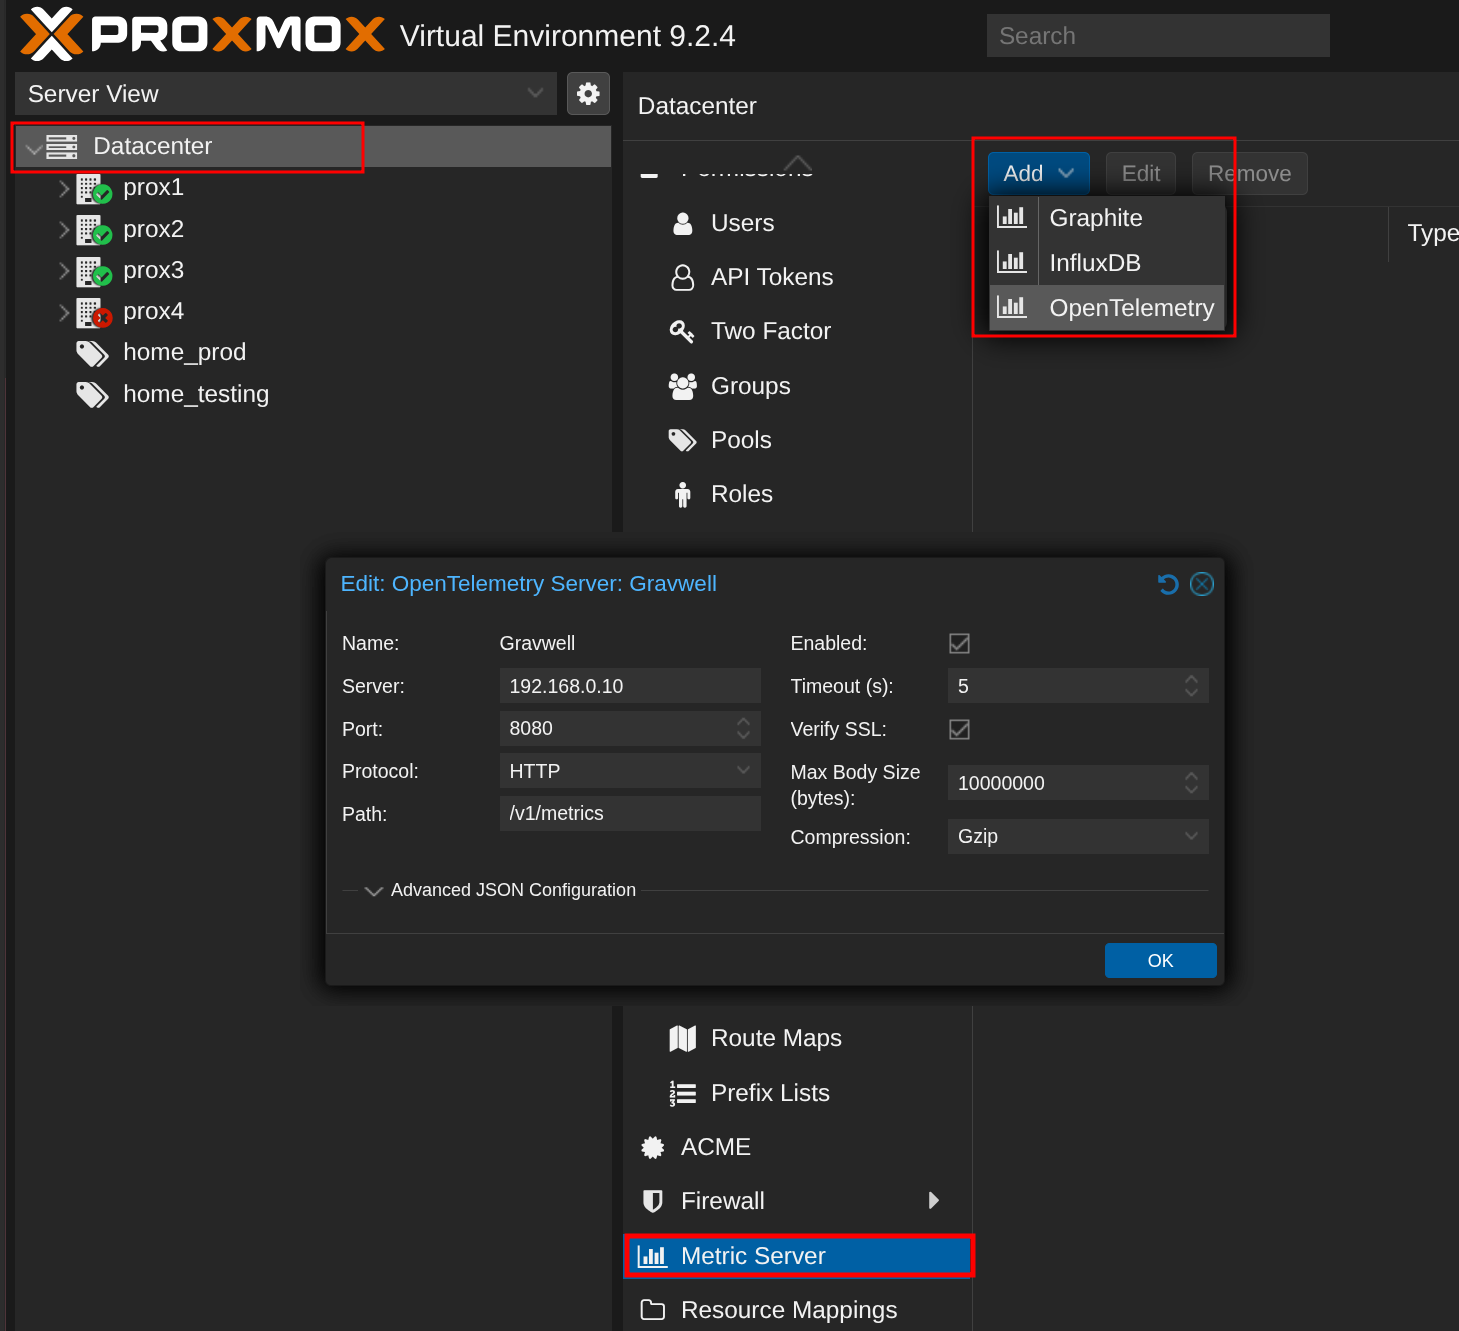
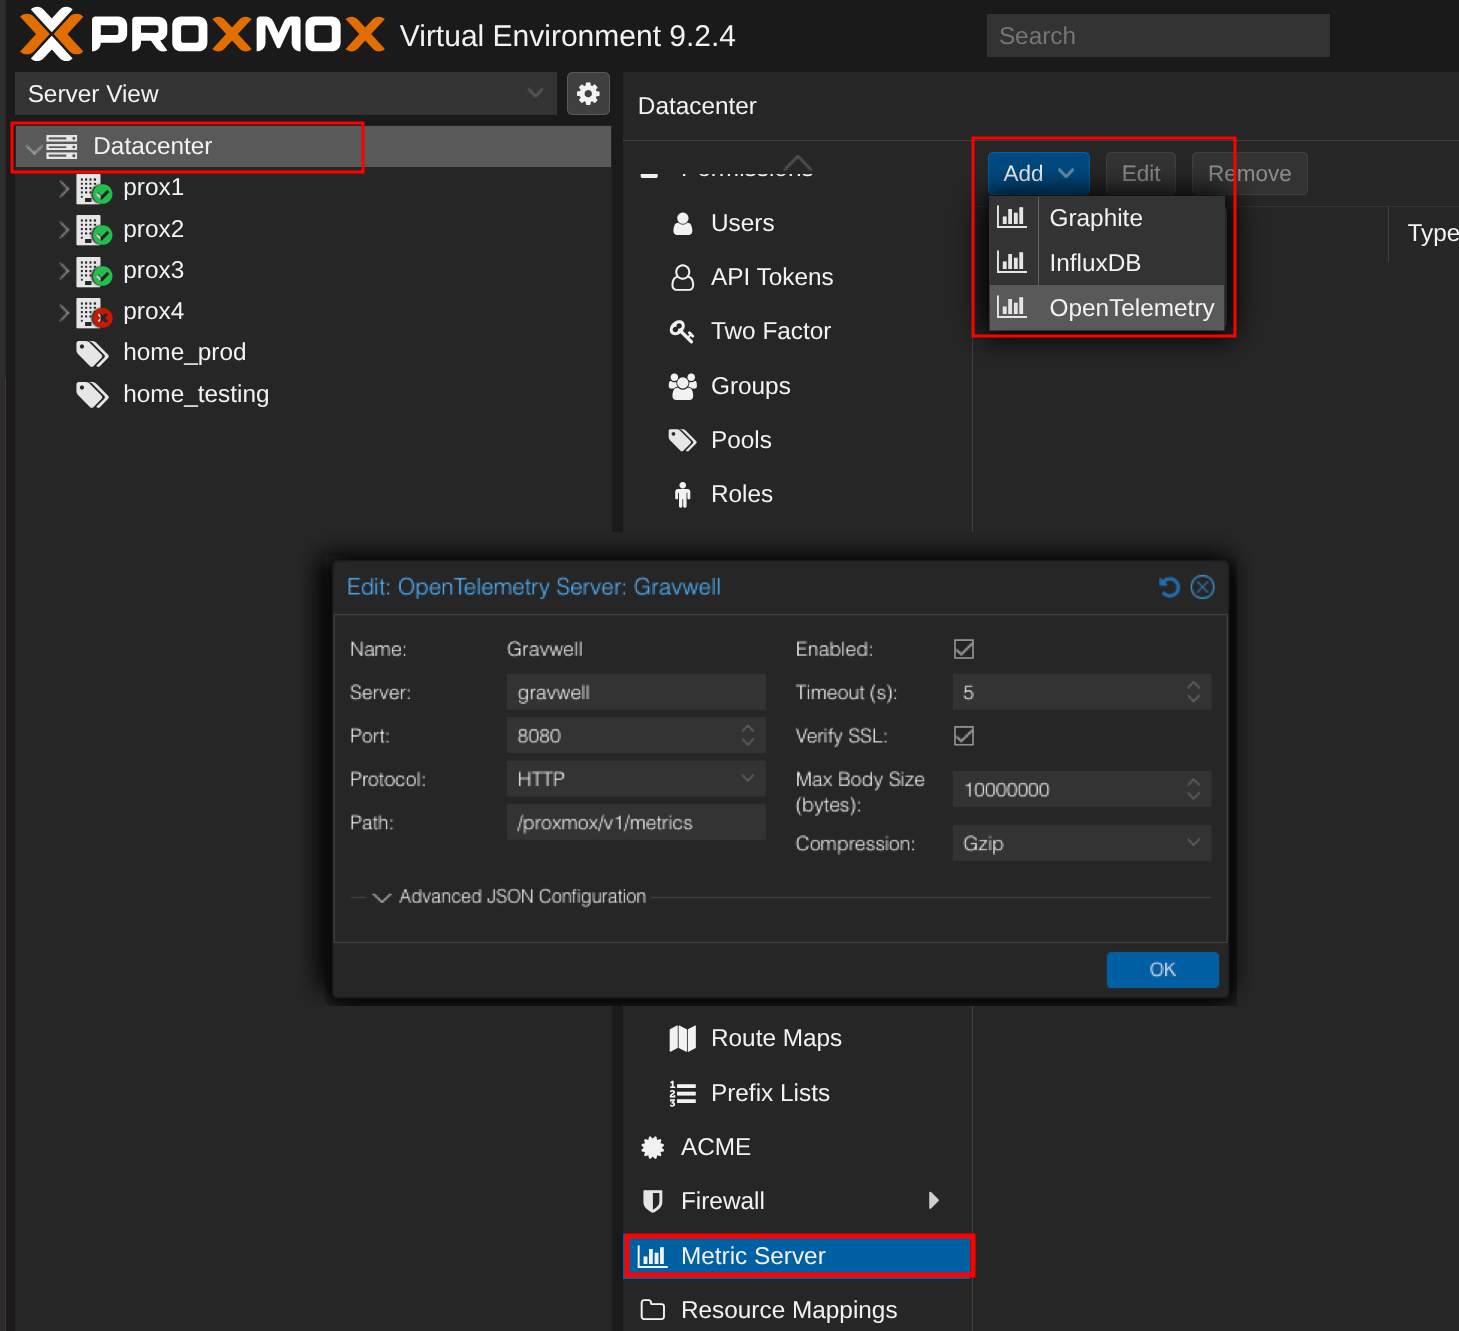
Proxmox VE: rsyslog to Simple Relay for system logs; OpenTelemetry for PVE 9
Option 2 (system logs) is redesigned. The previous systemd-journal-upload method
did not work as documented: journal-upload appends /upload to its URL, so the
listener never matched, and the HTTP listener stored each upload batch as one
entry.

- Title "Proxmox VE" (index toctree line and card too). Intro lists both options
  with their tags and the tested version (Proxmox VE 9.2.24; Option 2 also 8.4).
- Option 1: add the HTTP Ingester listener before the Proxmox metric server
  (Proxmox tests the connection on save). Listener section "proxmox", URL
  /proxmox/v1/metrics, tag proxmox-metrics. Volume example for sizing. New
  screenshot with the guide's Path.
- Option 2: rsyslog forwards RFC 5424 over TCP to Simple Relay tcp/15160, tag
  proxmox-syslog, with a disk queue. Steps: install, check for existing
  forwards (with a backup before editing), create 40-gravwell.conf, validate,
  restart, test message with a timestamp check. The 40- prefix is read before
  the frr package's 45-frr.conf, which otherwise stops FRR (SDN) messages
  before they are forwarded. One-sentence TLS pointer to the Simple Relay page.
  Cleanup for the old journal-upload method and undo steps.
- Well sample lists the two exact tags, with a check for existing data.
- Additional Resources section.

Tested end to end on Proxmox VE 9.2.24 (and Option 2 on 8.4.21) against
Gravwell 5.10.0, node in America/Denver, Gravwell host in UTC.

diff --git a/integrations/network/proxmox.md b/integrations/network/proxmox.md
@@ -1,99 +1,189 @@
-# Proxmox
+# Proxmox VE
 
 :::{csv-table}
 :align: left
 :width: 45%
 :widths: 15, 25
 **Integration Details**
-    Ingester, [HTTP Ingester](/ingesters/http)
+    Ingester, [HTTP Ingester](/ingesters/http) <br /> [Simple Relay](/ingesters/simple_relay)
 :::
+
+This guide sends metrics and system logs from Proxmox Virtual Environment (Proxmox VE) nodes to Gravwell. The two options collect different data, so you can use either one or both:
+
+* **[Option 1] OpenTelemetry metrics (Proxmox VE 9.0 and later):** Proxmox VE sends metrics about each node, virtual machine, container and storage to the HTTP Ingester. This method requires no additional installation and is useful for monitoring system, storage and network usage. Gravwell stores them under the `proxmox-metrics` tag.
+* **[Option 2] System logs:** each node's system log, which includes Proxmox VE actions such as VM power-on and restart, forwarded to Simple Relay. This method requires installing `rsyslog` on each node. Gravwell stores them under the `proxmox-syslog` tag.
+
+The steps in this guide were tested on Proxmox VE 9.2.24. Option 2 was also tested on Proxmox VE 8.4.
 
 ## Proxmox Configuration
 
-There are two primary methods to monitor Proxmox environments.
-* **OpenTelemetry (Simplest, metrics only):** Proxmox provides metrics about the environment and individual virtual machines through OpenTelemetry. This method requires no additional installation and is useful for monitoring things like system, storage, and network usage. 
-* **systemd logs (Proxmox logs):** systemd logs include Proxmox commands, such as VM power-on and restart. This method requires installing a package on Proxmox from the command line.
-
-If you use both methods, send them to different URLs and tags.
-
 ### [Option 1] Exporting Proxmox Metrics via OpenTelemetry
 
-OpenTelemetry collects metrics about each of the nodes and individual VMs. In the Proxmox web interface, go to **Datacenter** > **Metric Server** > **Add** > **OpenTelemetry** to send them to the HTTP Ingester, and set:
+The OpenTelemetry metric server is available in Proxmox VE 9.0 and later. Add the HTTP Ingester listener first (see "Gravwell Ingester Configuration: HTTP Ingester" below): Proxmox VE tests the connection when you save the metric server, and the save fails until the listener exists.
+
+In the Proxmox web interface, go to **Datacenter** > **Metric Server** > **Add** > **OpenTelemetry** to send metrics to the HTTP Ingester, and set:
 
 * **Name**: Use an identifiable name.
 * **Server**: Set to the address of your HTTP Ingester.
 * **Port**: Set to the port your HTTP Ingester listens on (its `Bind` setting, see [HTTP Ingester Setup](/integrations/generic/http_ingester)).
-* **Protocol**: Set to the protocol used by your HTTP Ingester.
+* **Protocol**: Set to the protocol used by your HTTP Ingester. Proxmox VE defaults to `https`; choose `http` if your HTTP Ingester does not use TLS.
 * **Path**: Set to the `URL` value in your HTTP Ingester listener (`/proxmox/v1/metrics` in the sample below).
 
 ![image](images/proxmox_opentelemetry.png)
 
-### [Option 2] Exporting Proxmox Systemd Logs
+Proxmox VE sends every metric every 10 seconds, and Gravwell stores each data point as one entry, so the volume grows with the number of virtual machines, containers and storages. For example, a node with 45 VMs, 22 containers and 4 storages sends about 3,300 data points every 10 seconds. That is about 29 million entries and about 1.3 GB on disk per day. Set the well's retention with this in mind.
 
-Install `systemd-journal-remote` to export logs to Gravwell:
-```
-apt update && apt install systemd-journal-remote
+### [Option 2] Forwarding Proxmox System Logs to Simple Relay
+
+Proxmox VE writes its logs to the systemd journal. `rsyslog` forwards them to Gravwell Simple Relay, one entry per log message. Fresh installs of Proxmox VE 8.0 and later do not include `rsyslog`; nodes upgraded from earlier releases usually still have it. Run the following as `root` on each Proxmox VE node; every node sends its own logs.
+
+1. Install `rsyslog`. If it is already installed, this changes nothing:
+
+    ```bash
+    apt update && apt install rsyslog
+    ```
+
+2. Check for existing forwarding rules. Run this before creating the file in the next step:
+
+    ```bash
+    grep -snE '^[^#]*(@@?[^ ]|omfwd)' /etc/rsyslog.conf /etc/rsyslog.d/*.conf
+    ```
+
+    No output means nothing is forwarded today. A line that sends to your Gravwell host (for example `*.* @gravwell.example.com:514`) would make the node send every message twice; remove or comment it out. Leave forwards to other destinations alone. For a multi-line `action(...)` block, the matching line is `type="omfwd"`; its `target` is in the same block.
+
+    Before you edit a file, back it up. Use a new backup name each time:
+
+    ```bash
+    cp /etc/rsyslog.conf /etc/rsyslog.conf.bak-$(date +%Y%m%d-%H%M%S)
+    ```
+
+    Replace `/etc/rsyslog.conf` with the file the check printed.
+
+3. Create `/etc/rsyslog.d/40-gravwell.conf` with the following, replacing `SIMPLE-RELAY-HOST` with the address of your Simple Relay:
+
+    ```text
+    # Forward all syslog messages to Gravwell Simple Relay over TCP, RFC 5424 format.
+    # Messages queue on disk (up to 1 GB) while Simple Relay is unreachable.
+    *.* action(
+        type="omfwd"
+        target="SIMPLE-RELAY-HOST"
+        port="15160"
+        protocol="tcp"
+        template="RSYSLOG_SyslogProtocol23Format"
+        action.resumeRetryCount="-1"
+        queue.type="LinkedList"
+        queue.filename="gravwell_fwd"
+        queue.maxDiskSpace="1g"
+        queue.saveOnShutdown="on"
+    )
+    ```
+
+    `RSYSLOG_SyslogProtocol23Format` sends an RFC 5424 timestamp that includes the node's UTC offset, so the listener needs no timezone setting, whatever timezone the node or Simple Relay host uses. Keep this template: rsyslog's default forwarding format has no offset, and Simple Relay would read it in its own host's timezone.
+
+    Keep the `40-` prefix. `rsyslog` reads the files in `/etc/rsyslog.d` in name order, and some packages add files that stop their messages after writing them locally. For example, the `frr` package (the routing suite used by Proxmox VE SDN) adds `45-frr.conf`. A file read after it would not forward FRR messages.
+
+4. Check the configuration. The output ends with `End of config validation run. Bye.` and shows no error lines:
+
+    ```bash
+    rsyslogd -N1
+    ```
+
+5. Restart `rsyslog` to apply the configuration:
+
+    ```bash
+    systemctl restart rsyslog
+    ```
+
+6. Send a test message:
+
+    ```bash
+    logger -t gravwell-test "Gravwell forwarding test"
+    ```
+
+    Search for it in Gravwell with `tag=proxmox-syslog grep gravwell-test | table TIMESTAMP DATA`. TIMESTAMP is shown in UTC (or your Gravwell display timezone) and must match the time in the message header, which carries the node's offset.
+
+`rsyslog` forwards new messages only; it does not send the journal history from before it started. While Simple Relay is unreachable, messages queue on disk under `/var/spool/rsyslog` and are sent when it is back, including across an `rsyslog` restart. `rsyslog` also writes the usual local log files, such as `/var/log/syslog`, on the node.
+
+```{note}
+A message being sent at the moment Simple Relay stops can be lost. This is a limit of syslog over TCP.
 ```
 
-Create or edit `/etc/systemd/journal-upload.conf` with the following:
-```
-[Upload]
-# Set to the address and port of your HTTP Ingester, plus the listener path (/upload in the sample below)
-URL=http://ingesterIP:port/upload
-# ServerKeyFile=/etc/ssl/private/journal-upload.pem
-# ServerCertificateFile=/etc/ssl/certs/journal-upload.pem
-# TrustedCertificateFile=/etc/ssl/ca/trusted.pem
+If you previously followed an earlier version of this guide that used `systemd-journal-upload`, stop it so the node does not send its logs twice:
+
+```bash
+systemctl disable --now systemd-journal-upload.service
 ```
 
-Enable and restart the service:
-```
-sudo systemctl enable systemd-journal-upload.service
-sudo systemctl restart systemd-journal-upload.service
-sudo systemctl status systemd-journal-upload.service
+To stop forwarding, remove the file and restart `rsyslog`:
+
+```bash
+rm /etc/rsyslog.d/40-gravwell.conf
+systemctl restart rsyslog
 ```
 
-The first run uploads the entire journal, which may exceed the `Max-Body` limit of the Gravwell HTTP Ingester. You may need to increase `Max-Body` in the HTTP Ingester configuration:
-* Find the current file size with `journalctl --disk-usage`
-* Increase `Max-Body` in the `[Global]` block of the HTTP Ingester's base configuration file to at least that size, then restart the ingester. See [HTTP Ingester Setup](/integrations/generic/http_ingester).
+If you removed a forward in step 2, restore it from your backup before the restart.
 
 ## Gravwell Configuration
 
 ### Gravwell Storage Well Configuration
 
-Setup the well configuration in your Gravwell indexers.
+Set up the well configuration in your Gravwell indexers.
 
 **Sample well config:**  
 Create or edit: `/opt/gravwell/etc/gravwell.conf.d/proxmox-well.conf`
 ```ini
 [Storage-Well "proxmox"]
     Location=/opt/gravwell/storage/proxmox
-    Tags=prox-*
-    Tags=otel-prox-*
+    Tags=proxmox-syslog
+    Tags=proxmox-metrics
 ```
+
+If either tag already has data in another well, leave that tag in its current well and remove its line from this sample. Gravwell does not move stored entries when a tag is assigned to a different well, and entries already stored under the tag stop being searchable. See "Tag Restrictions and Gotchas" in [Advanced Gravwell Configuration](/configuration/configuration). To check before adding the sample, run `tag=proxmox-syslog count` and `tag=proxmox-metrics count` over a timeframe that covers all your stored data (for example a custom duration of several years). A non-zero count means the tag already has data; an error that the tag does not match any known tags means it has none.
 
 ### Gravwell Ingester Configuration: HTTP Ingester
 
-This guide assumes the HTTP Ingester is already installed and configured as described in [HTTP Ingester Setup](/integrations/generic/http_ingester). Add the following to a new overlay file; you do not need a separate HTTP Ingester for this integration.
+Used by Option 1. This guide assumes the HTTP Ingester is already installed and configured as described in [HTTP Ingester Setup](/integrations/generic/http_ingester). Add the following to a new overlay file; you do not need a separate HTTP Ingester for this integration.
 
 **Sample Proxmox HTTP config:**  
 Create or edit: `/opt/gravwell/etc/gravwell_http_ingester.conf.d/proxmox.conf`
 ```ini
-# [Option 1] Open Telemetry Metrics Listener
-[OpenTelemetry-Metrics-Listener "otel-metrics"]
+[OpenTelemetry-Metrics-Listener "proxmox"]
     URL="/proxmox/v1/metrics"        # OTLP metrics endpoint with a Proxmox-specific prefix
-    Tag-Name="otel-prox-metrics"     # Tag for ingested metrics
+    Tag-Name="proxmox-metrics"       # Tag for ingested metrics
     Ignore-Timestamps=false          # Use timestamps from OTLP data
-    Debug-Posts=true                 # Log debug info about requests
     Encode-As-JSON=true              # Encode metrics as JSON and include in the entry DATA, (doubles storage requirements)
 #    Preprocessor="otel-processor"   # Optional preprocessor
-
-# [Option 2] Exporting Proxmox Systemd logs
-[Listener "systemd"]
-    URL="/upload"
-    Tag-Name=prox-systemd
 ```
 
 ```{note}
 Remember to restart the service to apply the new config:
 `sudo systemctl restart gravwell_http_ingester.service`
 ```
+
+### Gravwell Ingester Configuration: Simple Relay
+
+Used by Option 2. This guide assumes Simple Relay is already installed and configured as described in [Simple Relay](/ingesters/simple_relay). Add the following to a new overlay file.
+
+**Sample Proxmox Simple Relay config:**  
+Create or edit: `/opt/gravwell/etc/simple_relay.conf.d/proxmox.conf`
+```ini
+[Listener "proxmox"]
+    Bind-String="tcp://0.0.0.0:15160"
+    Reader-Type=rfc5424
+    Tag-Name=proxmox-syslog
+```
+
+This listener accepts unencrypted TCP. Simple Relay also supports TLS listeners (see "Bind-String" in [Simple Relay](/ingesters/simple_relay)), and `rsyslog` can forward over TLS, but this guide does not cover that setup.
+
+```{note}
+Remember to restart the service to apply the new config:
+`sudo systemctl restart gravwell_simple_relay.service`
+```
+
+To confirm data is arriving, run `tag=proxmox-syslog count` (Option 2) or `tag=proxmox-metrics count` (Option 1). Gravwell reports an unknown tag until the first entry arrives.
+
+## Additional Resources
+* [Proxmox VE: External Metric Server](https://pve.proxmox.com/pve-docs/pve-admin-guide.html#external_metric_server)
+* [rsyslog: omfwd (Forwarding Output Module)](https://www.rsyslog.com/doc/configuration/modules/omfwd.html)
+* [HTTP Ingester](/ingesters/http)
+* [Simple Relay](/ingesters/simple_relay)

diff --git a/integrations/integrations.md b/integrations/integrations.md
@@ -47,7 +47,7 @@ OpenWeatherMap <application/openweathermap>
 Palo Alto <network/paloalto>
 pfSense <network/pfsense>
 PiHole <network/pihole>
-Proxmox <network/proxmox>
+Proxmox VE <network/proxmox>
 SentinelOne <application/sentinelone>
 Suricata <network/suricata>
 Syslog <generic/syslog>
@@ -175,7 +175,7 @@ Zeek <network/zeek>
 :::{grid-item-card}
 :link: network/proxmox
 :link-type: doc
-**Proxmox**
+**Proxmox VE**
 :::
 ::::
 
